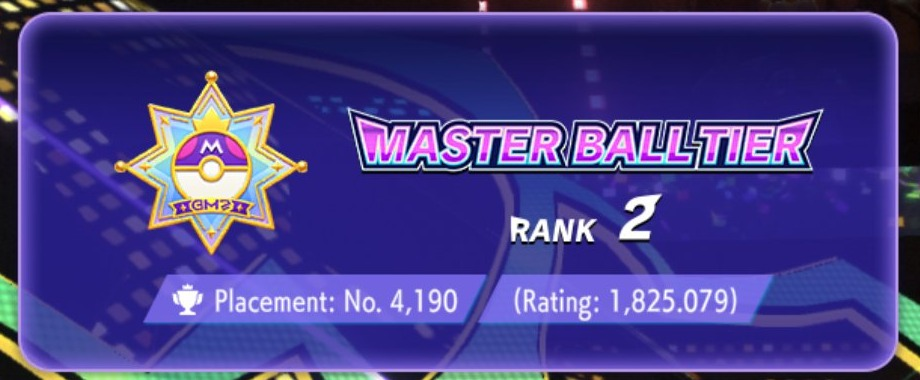
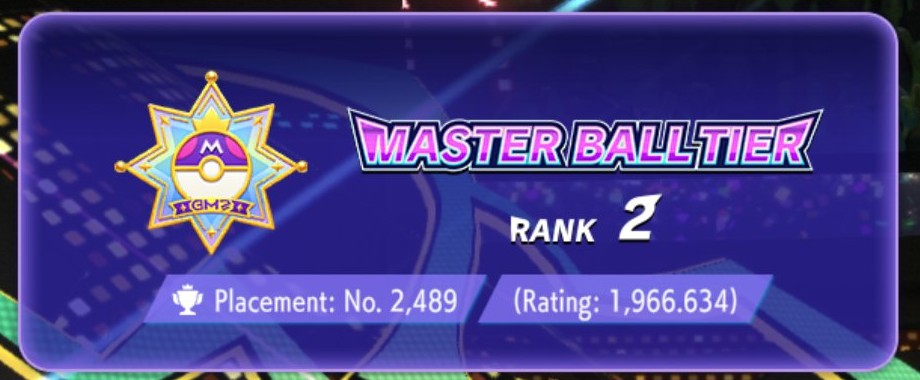
README: result screen at placement 2,489, rating 1,966.6

diff --git a/README.md b/README.md
@@ -17,9 +17,9 @@ phone exactly as it does in training, the network sees the same inputs live as i
 
 *The dashboard (`pcsa watch`) during a ranked session at Master Ball rank 2. The image links to a 1:50 video.*
 
-![Single Battle result after a ranked game: Master Ball tier, rank 2, placement No. 4,190, rating 1,825.079](docs/images/master-ball-rank2.jpg)
+![Single Battle result after a ranked game: Master Ball tier, rank 2, placement No. 2,489, rating 1,966.634](docs/images/master-ball-rank2.jpg)
 
-*The game's result screen after a ranked win: Master Ball tier, rank 2, rating 1,825.*
+*The game's result screen after a ranked win: Master Ball tier, rank 2, placement 2,489, rating 1,967.*
 
 ## How it works
 
